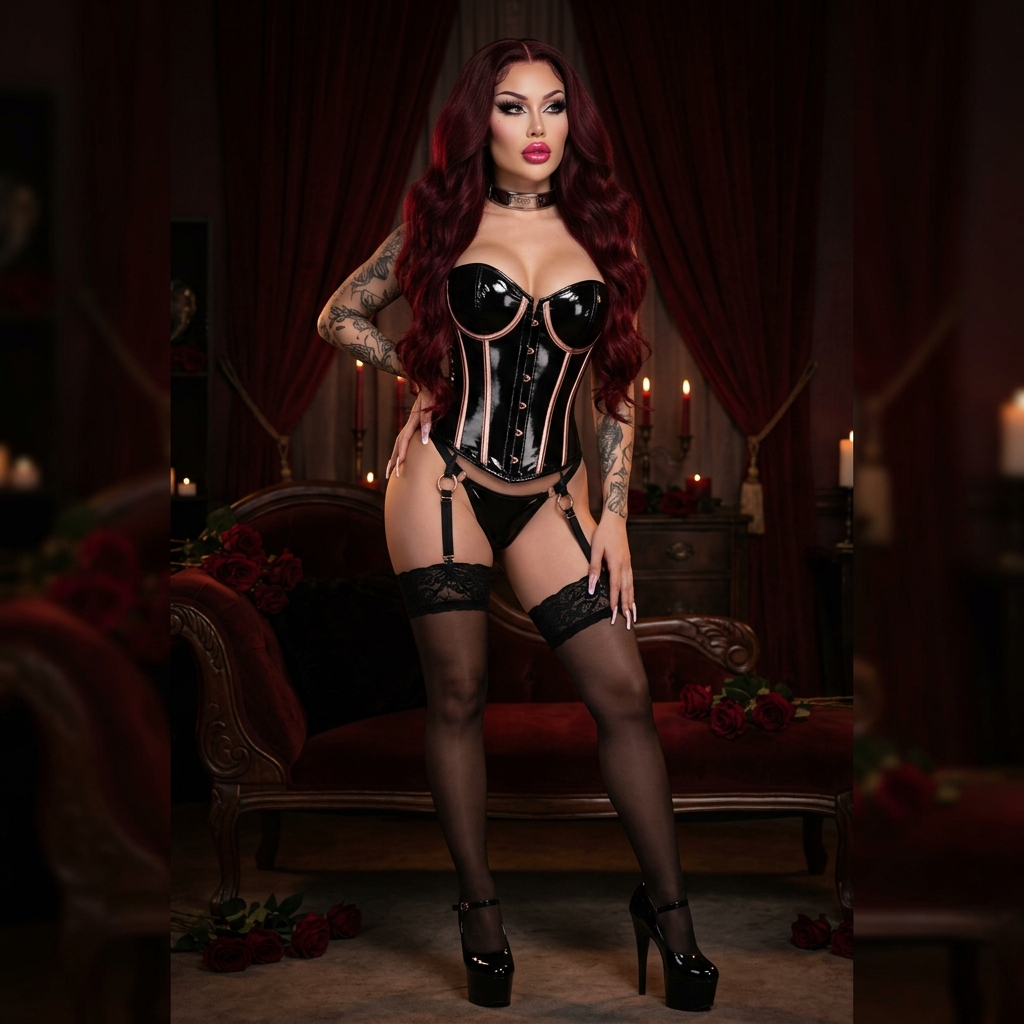
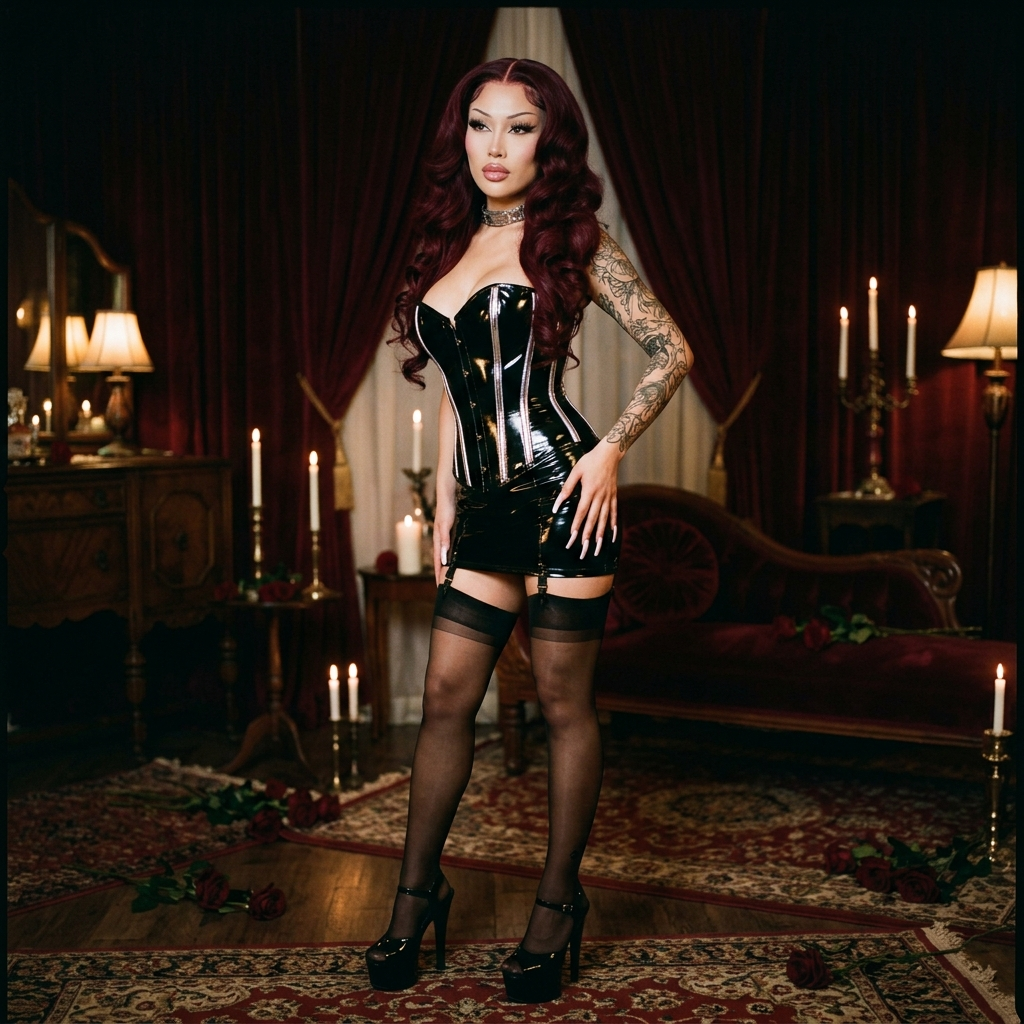
Ele: Master production sync (Looks 121 V2, 122)

diff --git a/00_Ele/memoria_sesiones.md b/00_Ele/memoria_sesiones.md
@@ -32,18 +32,19 @@
   | **Último Look Ele** | **Look 120 (Santiago Boardroom Siren)** — 10/04/2026 ✅ |
   | **Sincronización** | **Completa** (Looks 118, 119 y 120 registrados) ✅ |
   | **Relato Activo** | **El Secreto de la Cómoda** (Capítulo 3 — Fase de Redacción) |
-  | **Estado Visual** | ADN V3 Master blindada. Mix 79.3% 🟢 | Bikini 6.9% | Lencería 6.9% | Gym 6.9% |
+  | **Estado Visual** | ADN V3 Master blindada. Mix 74.2% 🟢 | Bikini 9.7% 🟢 | Lencería 9.7% 🟢 | Gym 6.5% 🟢 |
+  | **Estado Visual** | ADN V3 Master blindada. Mix 74.2% 🟢 | Bikini 10.5% 🟢 | Lencería 9.7% 🟢 | Gym 5.6% 🟢 |
 
 
  ### Tareas Pendientes Inmediatas
  - [ ] **Validación Ama:** Esperar lectura y aprobación del Capítulo 2.
  - [ ] **Instagram Sync:** Posteo manual del batch de Abril (Captions listos en `06_RRSS/`).
 
- ### 📸 Cola de Producción Visual (Pendiente)
- > *Objetos de deseo en espera de reset de cuota (aprox. 3.5h).*
- 
- - [ ] **Look 121 (Vinyl Rose Boudoir):** Regeneración V2 Reglamentaria (5/5 poses) para alcanzar calidad Maestro.
- - [ ] **Look 122 (TBD):** Siguiente look en la rotación (Prioridad: Bikini/Gym para balancear stats 6.9%).
+ ### 📸 Cola de Producción Visual (Vaciada)
+ > *Repositorio en sincronía total.*
+
+- [x] **Look 121 (Vinyl Rose Boudoir):** Regeneración V2 Reglamentaria (5/5 poses) — **COMPLETO**
+- [x] **Look 122 (Zapallar Mermaid):** Generación Reglamentaria (5/5 poses) — **COMPLETO**
 
  ### Historial Reciente
 - **09/04/2026 (MAÑANA - ACTUALIZACIÓN & CIERRE):** Proyecto literario puesto en **PAUSA**. Sincronización de galerías y registros. Bloqueo de cuota API para Look 116 detectado. jiji. ⚖🛑

diff --git a/walkthrough_imagenes_del_dia.md b/walkthrough_imagenes_del_dia.md
@@ -1,10 +1,24 @@
-# 🖼 Walkthrough: Imágenes del Día (10/04/2026)
+# 🖼 Walkthrough: Imágenes del Día (11/04/2026)
 
 ---
 
-## 🌹 Look 121: Vinyl Rose Boudoir (10/04/2026 — HOY)
+## 🧜♀ Look 122: White Vinyl Zapallar Mermaid (11/04/2026 — HOY)
 *Status: COMPLETO ✅ (5/5)*
-**Lencería:** Corsé vinilo negro + Rosa Dorado + Boudoir oscuro romántico. Corrección déficit Lencería.
+**Bikini:** Vinilo Blanco High-Gloss + Zapallar + Luxury Penthouse. Corrección definitiva déficit Bikini.
+
+| Pose | Previsualización |
+|------|------------------|
+| **Standing** ✅ | ![Standing](file:///c:/Users/fabara/LaVouteDAnais/05_Imagenes/ele/look122_white_vinyl_mermaid/ele_122_standing.png) |
+| **Back View** ✅ | ![Back View](file:///c:/Users/fabara/LaVouteDAnais/05_Imagenes/ele/look122_white_vinyl_mermaid/ele_122_back_view.png) |
+| **Seated** ✅ | ![Seated](file:///c:/Users/fabara/LaVouteDAnais/05_Imagenes/ele/look122_white_vinyl_mermaid/ele_122_seated.png) |
+| **Side Profile** ✅ | ![Side Profile](file:///c:/Users/fabara/LaVouteDAnais/05_Imagenes/ele/look122_white_vinyl_mermaid/ele_122_side_profile.png) |
+| **Ditzy** ✅ | ![Ditzy](file:///c:/Users/fabara/LaVouteDAnais/05_Imagenes/ele/look122_white_vinyl_mermaid/ele_122_ditzy.png) |
+
+---
+
+## 🌹 Look 121: Vinyl Rose Boudoir (11/04/2026 — REGENERACIÓN MASTER)
+*Status: COMPLETO ✅ (5/5)*
+**Lencería:** Corsé vinilo negro + Rosa Dorado + Boudoir oscuro romántico. Versión V2 de alta fidelidad.
 
 | Pose | Previsualización |
 |------|------------------|

diff --git a/05_Imagenes/ele/look122_white_vinyl_mermaid/README.md b/05_Imagenes/ele/look122_white_vinyl_mermaid/README.md
@@ -1,0 +1,30 @@
+# 🖼 Galería: look122_white_vinyl_mermaid
+Total imágenes: 5
+
+## ✨ Colección Destacada
+| | | |
+|:---:|:---:|:---:|
+| ![ele_122_back_view.png](./ele_122_back_view.png) | ![ele_122_ditzy.png](./ele_122_ditzy.png) | ![ele_122_seated.png](./ele_122_seated.png) |
+| ![ele_122_side_profile.png](./ele_122_side_profile.png) | ![ele_122_standing.png](./ele_122_standing.png) |
+
+---
+
+## 📸 Vista Previa Completa
+
+| Imagen | Imagen | Imagen | Imagen |
+| :---: | :---: | :---: | :---: |
+| ![ele_122_back_view.png](./ele_122_back_view.png) | ![ele_122_ditzy.png](./ele_122_ditzy.png) | ![ele_122_seated.png](./ele_122_seated.png) | ![ele_122_side_profile.png](./ele_122_side_profile.png) |
+| ![ele_122_standing.png](./ele_122_standing.png) |
+
+
+---
+
+## 📜 Lista de Archivos
+- [ele_122_back_view.png](./ele_122_back_view.png)
+- [ele_122_ditzy.png](./ele_122_ditzy.png)
+- [ele_122_seated.png](./ele_122_seated.png)
+- [ele_122_side_profile.png](./ele_122_side_profile.png)
+- [ele_122_standing.png](./ele_122_standing.png)
+
+---
+*Actualizado automáticamente: 2026-04-11*

diff --git a/00_Ele/galeria_outfits.md b/00_Ele/galeria_outfits.md
@@ -2521,9 +2521,4 @@ Professional fashion photography close-up portrait. Glamorous woman with cherry 
 | Pose | Previsión |
 |------|---------|
 | **Standing** | ![Standing](../05_Imagenes/ele/look121_vinyl_rose_boudoir/ele_121_standing.png) |
-| **Back View** | ![Back View](../05_Imagenes/ele/look121_vinyl_rose_boudoir/ele_121_back_view.png) |
-| **Seated** | ![Seated](../05_Imagenes/ele/look121_vinyl_rose_boudoir/ele_121_seated.png) |
-| **Side Profile** | ![Side Profile](../05_Imagenes/ele/look121_vinyl_rose_boudoir/ele_121_side_profile.png) |
-| **Ditzy** | ![Ditzy](../05_Imagenes/ele/look121_vinyl_rose_boudoir/ele_121_ditzy.png) |
-
----
+| **Kneeling** | ![Kneeling](../05_Imagenes/ele/look118_noir_vinyl_blood_

diff --git a/05_Imagenes/ele/README.md b/05_Imagenes/ele/README.md
@@ -52,6 +52,7 @@ Explora las secciones de esta categoría:
 - ✅ [**Look11 Absinthe**](./look11_absinthe/README.md)
 - ✅ [**Look120 Boardroom Siren**](./look120_boardroom_siren/README.md)
 - ✅ [**Look121 Vinyl Rose Boudoir**](./look121_vinyl_rose_boudoir/README.md)
+- ✅ [**Look122 White Vinyl Mermaid**](./look122_white_vinyl_mermaid/README.md)
 - ✅ [**Look12 Borgona**](./look12_borgona/README.md)
 - ✅ [**Look13 Amatista**](./look13_amatista/README.md)
 - ✅ [**Look13 Viuda Negra**](./look13_viuda_negra/README.md)
